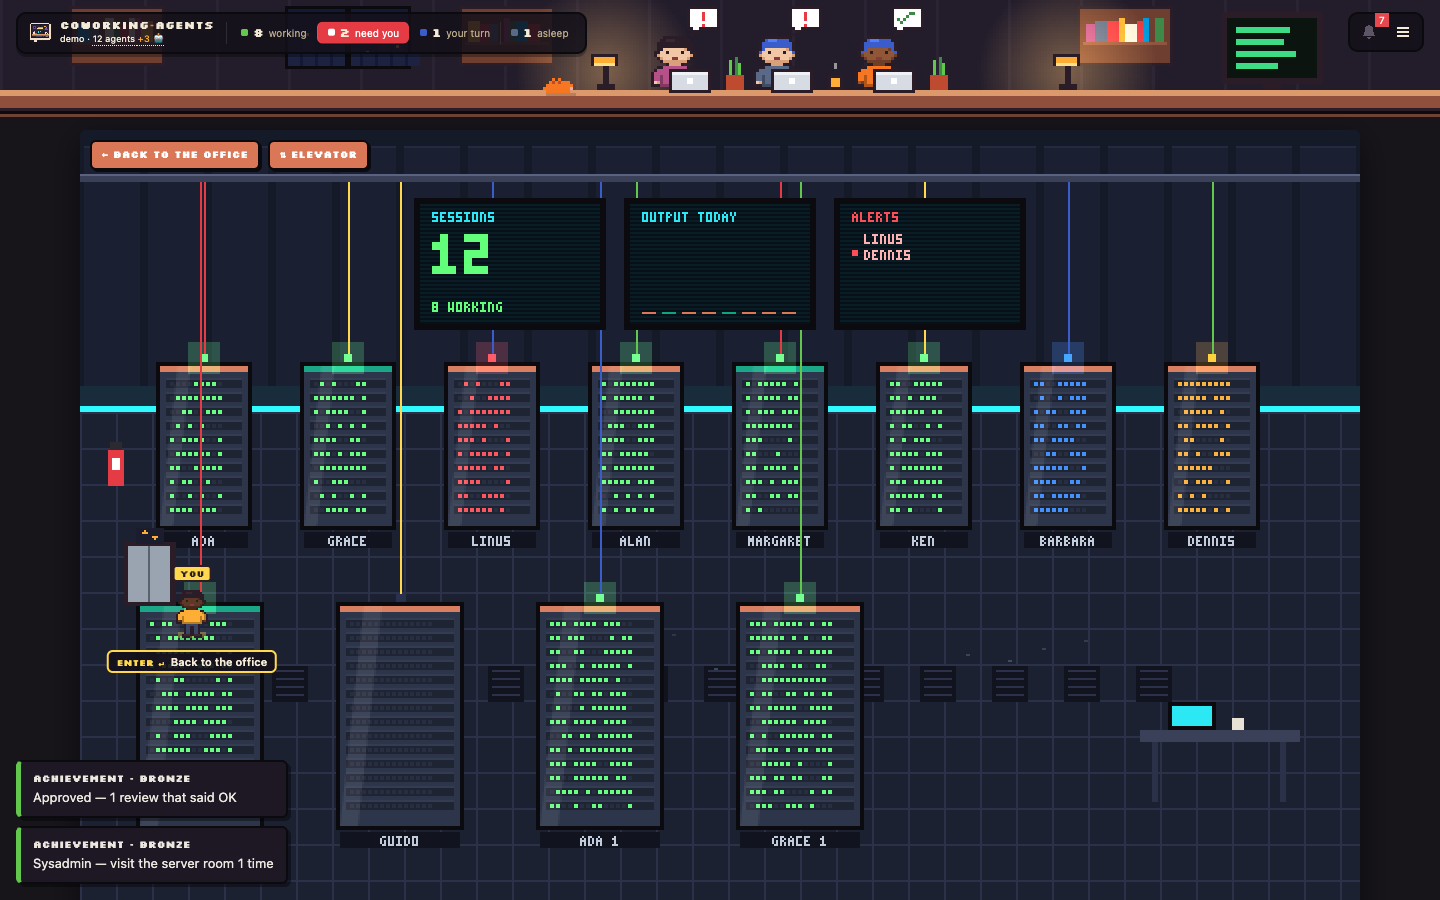
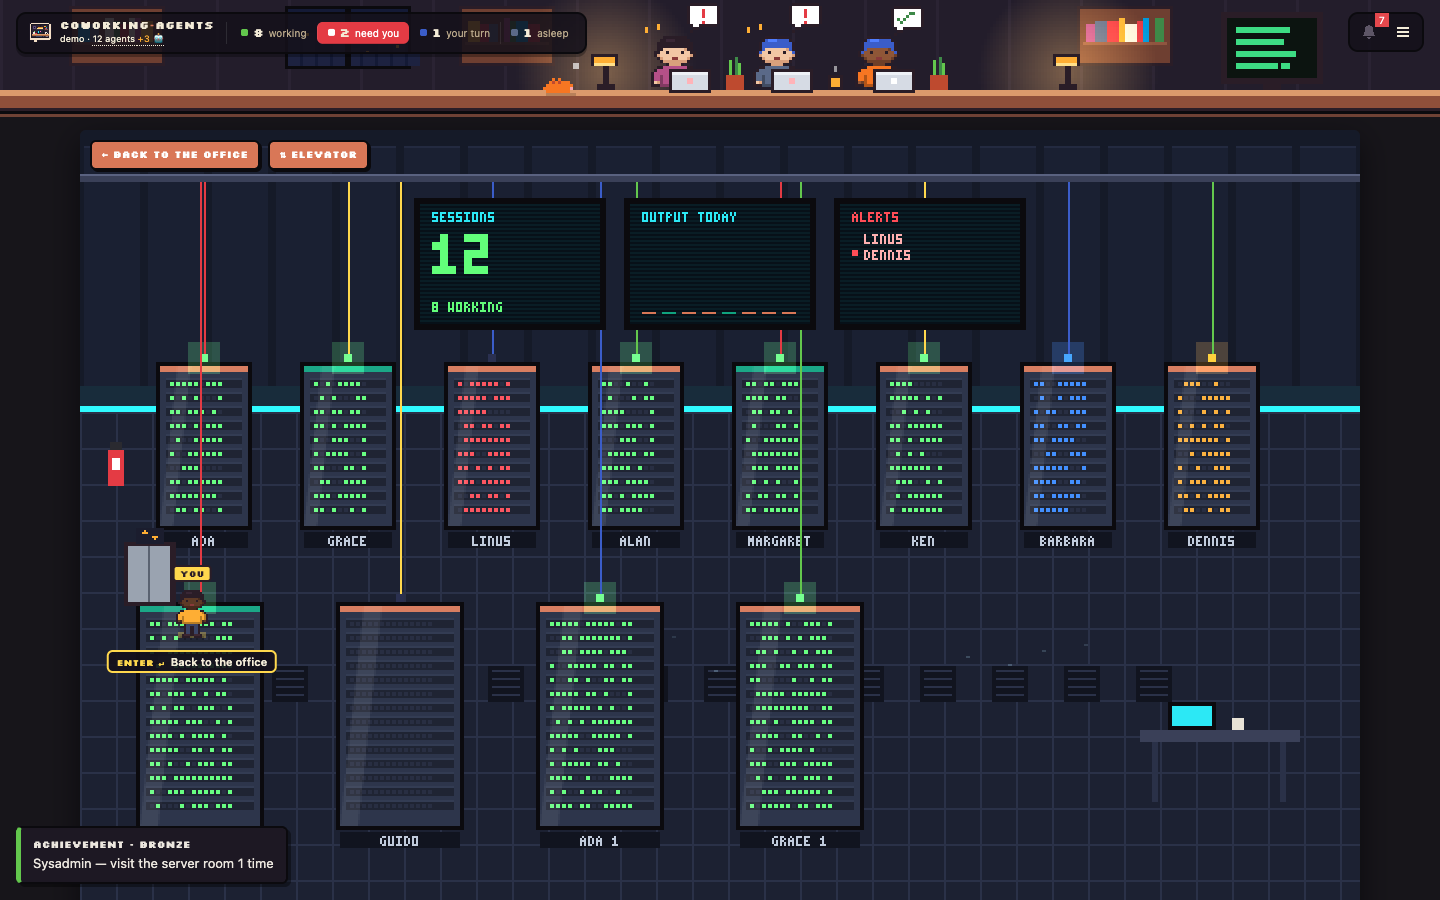
Wall only over the building: sky and trees over the park, an awning and string lights over the café, plants and frames between windows

diff --git a/public/js/scene.js b/public/js/scene.js
@@ -57,17 +57,21 @@ function drawUsageBoard(x, y, t) {
 // hour of the sky (?hour= overrides it for screenshots), with minutes
 const skyHour = () => styleHour(qs.get('hour') ? Number(qs.get('hour')) : new Date().getHours() + new Date().getMinutes() / 60);
 function drawWall(t, sky) {
-  r(0, 0, W, TOP - 6, PAL.wall);
+  // the building's wall runs from the park to the café; over the open sides there is sky (see drawOutdoorTops)
+  const b0 = Math.max(0, SIDE_L - 4), b1 = Math.min(W, RX + RW + 10), bw = b1 - b0;
+  drawOutdoorTops(t, sky, b0, b1);
+  r(b0, 0, bw, TOP - 6, PAL.wall);
   // wallpaper: a quiet dotted diamond pattern, then a chair rail with wood wainscot below the frames
-  for (let y = 8, k = 0; y < TOP - 16; y += 6, k++) for (let x = (k % 2) * 6; x < W; x += 12) r(x, y, 1, 1, PAL.wallShade);
-  r(0, 0, W, 3, PAL.wallTrim); r(0, 3, W, 1, PAL.ink2);
-  r(0, TOP - 14, W, 2, PAL.wallTrim); r(0, TOP - 12, W, 1, PAL.wallShade); r(0, TOP - 11, W, 3, shade(PAL.wall, .93));
-  for (let x = 18; x < W; x += 36) r(x, TOP - 11, 1, 3, PAL.wallShade);
-  r(0, TOP - 8, W, 2, PAL.wallShade); r(0, TOP - 6, W, 5, PAL.base); r(0, TOP - 6, W, 1, '#8f553f'); r(0, TOP - 1, W, 1, PAL.ink);
+  for (let y = 8, k = 0; y < TOP - 16; y += 6, k++) for (let x = b0 + (k % 2) * 6; x < b1; x += 12) r(x, y, 1, 1, PAL.wallShade);
+  r(b0, 0, bw, 3, PAL.wallTrim); r(b0, 3, bw, 1, PAL.ink2);
+  r(b0, TOP - 14, bw, 2, PAL.wallTrim); r(b0, TOP - 12, bw, 1, PAL.wallShade); r(b0, TOP - 11, bw, 3, shade(PAL.wall, .93));
+  for (let x = b0 + 18; x < b1; x += 36) r(x, TOP - 11, 1, 3, PAL.wallShade);
+  r(b0, TOP - 8, bw, 2, PAL.wallShade); r(b0, TOP - 6, bw, 5, PAL.base); r(b0, TOP - 6, bw, 1, '#8f553f'); r(b0, TOP - 1, bw, 1, PAL.ink);
+  if (SIDE_L) r(b0, 0, 4, TOP, PAL.ink2); if (SIDE_R) r(b1 - 4, 0, 4, TOP, PAL.ink2); // the building's corners
   windowBoxes = []; releaseBox = historyBox = costBox = noticesBox = null;
   // what hangs on the wall, chosen by how much wall there is (as many 74 px slots as fit), then spread evenly
   // between the light switch and the whiteboard so the gaps match
-  const nWin = Math.max(1, Math.floor((CX - 30) / 74)), items = [];
+  const nWin = Math.max(1, Math.floor((CX - 30 - SIDE_L) / 74)), items = [];
   let extra = 0; // slots after the agent of the month become the costs screen and the notice board
   for (let i = 0; i < nWin; i++) {
     if (i === 1) items.push({ w: 112, draw: x => drawUsageBoard(x, 7, t) });
@@ -80,10 +84,12 @@ function drawWall(t, sky) {
     else if (i === 4 && nWin >= 7) items.push({ w: 64, draw: x => drawTrophyShelf(x, 9, 64, t) });
     else if (i === 5) items.push(nWin >= 7 ? { w: 52, draw: x => drawAgentOfMonth(x, 10, t, wallGlows) } : { w: 22, draw: x => Art.drawPoster(x, 12, 1) });
     else if (i >= 6 && extra < 2 && typeof drawCostScreen === 'function') items.push(extra++ === 0 ? { w: 48, draw: x => { drawCostScreen(x, 9, 48, 30, t); costBox = { x: x - 1, y: 8, w: 50, h: 32 }; } } : { w: 48, draw: x => { drawNoticeCork(x, 9, 48, 30, t); noticesBox = { x: x - 1, y: 8, w: 50, h: 32 }; } });
+    else if (i >= 6 && i % 3 === 1) items.push({ w: 40, draw: x => drawPlantShelf(x, 14, t, i) }); // a long wall breathes: plants and frames between the windows
+    else if (i >= 6 && i % 3 === 2) items.push({ w: 26, draw: x => drawWallFrame(x, 12, i) });
     else items.push({ w: 48, draw: x => { Art.drawWindow(x, 9, 48, 30, sky, t, i); drawSkyExtras(x, 9, 48, 30, sky, t, i, skyHour()); drawWindowView(x, 9, 48, 30, sky, i); drawSeasonWindow(x, 9, 48, 30, t); drawWeather(x, 9, 48, 30, t); drawGlassDrops(x, 9, 48, 30, t); drawHolidayWindow(x, 9, 48, 30, t, sky); windowBoxes.push({ x, y: 9, w: 48, h: 30 }); } });
   }
   moodBox = null;
-  const left = 18, right = RX - 24, sum = () => items.reduce((n, it) => n + it.w, 0);
+  const left = SIDE_L + 18, right = RX - 24, sum = () => items.reduce((n, it) => n + it.w, 0);
   if (right - left - sum() - 26 >= (items.length + 1) * 8) items.push({ w: 26, draw: x => drawMoodSign(x + 1, 16, t, wallGlows) }); // ON AIR, when there is room
   const gap = items.length > 1 ? Math.min(40, Math.max(6, (right - left - sum()) / (items.length - 1))) : 0, start = left + Math.max(0, ((right - left) - sum() - gap * (items.length - 1)) / 2);
   let x = start; for (const it of items) { it.draw(Math.round(x)); x += it.w + gap; }
@@ -93,12 +99,34 @@ function drawWall(t, sky) {
   hallBox = { x: RX + 74, y: 7, w: 72, h: 32 };
   Art.drawCork(hallBox.x, hallBox.y, hallBox.w, hallBox.h, data ? Object.values(data.credentials || {}).flatMap(c => c.topSkills || []).sort((a, b) => b.count - a.count) : []);
   // light switch on the wall, by the door: click it to turn the ceiling lights on/off
-  switchBox = { x: 4, y: 20, w: 8, h: 12 };
-  r(4, 20, 8, 12, PAL.ink); r(5, 21, 6, 10, '#f4ecd8'); r(5, 21, 6, 1, '#ffffff');
-  r(7, 22, 2, 8, '#c0cbdc'); r(7, lightsOn ? 22 : 26, 2, 4, lightsOn ? '#63c74d' : '#8b9bb4');
+  const sx = SIDE_L + 4; switchBox = { x: sx, y: 20, w: 8, h: 12 };
+  r(sx, 20, 8, 12, PAL.ink); r(sx + 1, 21, 6, 10, '#f4ecd8'); r(sx + 1, 21, 6, 1, '#ffffff');
+  r(sx + 3, 22, 2, 8, '#c0cbdc'); r(sx + 3, lightsOn ? 22 : 26, 2, 4, lightsOn ? '#63c74d' : '#8b9bb4');
   return nWin;
 }
 let switchBox = null;
+// a wall shelf with potted plants, and a small framed picture: what fills a long wall between the windows
+function drawPlantShelf(x, y, t, k) {
+  r(x, y + 20, 40, 3, '#6b4a33'); r(x, y + 23, 40, 1, PAL.ink); r(x + 3, y + 24, 2, 4, '#4a3324'); r(x + 35, y + 24, 2, 4, '#4a3324');
+  const greens = ['#3a8f46', '#2f6b2a', '#4fa846'];
+  for (let j = 0; j < 3; j++) { const px = x + 4 + j * 12, h = 6 + hash('ps' + k + j) % 8; r(px, y + 14, 8, 6, ['#c96f4a', '#e8e2d6', '#3b5dc9'][(k + j) % 3]); for (let l = 0; l < 3; l++) r(px + 1 + l * 2 + (l === 1 ? 0 : 0), y + 14 - h + l * 2, 2, h - l * 2, greens[(j + l) % 3]); }
+}
+function drawWallFrame(x, y, k) {
+  r(x, y, 26, 22, PAL.ink); r(x + 1, y + 1, 24, 20, '#c9a34a'); r(x + 3, y + 3, 20, 16, ['#7fb3e6', '#f4c0d0', '#a8d08d'][k % 3]);
+  const kind = k % 3; if (kind === 0) { r(x + 3, y + 13, 20, 6, '#3a8f46'); r(x + 14, y + 6, 4, 4, '#ffd84d'); } else if (kind === 1) { r(x + 8, y + 8, 10, 8, '#b55088'); r(x + 10, y + 6, 6, 2, '#b55088'); } else { r(x + 5, y + 12, 6, 7, '#5a3a28'); r(x + 13, y + 9, 8, 10, '#6b4a33'); }
+}
+// over the park and the café there is no wall: sky, a line of trees on the left, the café's striped awning on the right
+function drawOutdoorTops(t, sky, b0, b1) {
+  const st = typeof skyStops === 'function' ? skyStops(sky.phase) : ['#3a9ad9', '#7fc8f0', '#bfe6ff'];
+  const band = (x, w) => { for (let y = 0; y < TOP; y++) { const k = y / TOP; r(x, y, w, 1, k < .5 ? st[0] : k < .85 ? st[1] : st[2]); } };
+  if (b0 > 0) { band(0, b0); for (let x = -6; x < b0; x += 22) { const h = 16 + hash('tl' + x) % 14; r(x, TOP - h, 24, h, '#2f6b2a'); r(x + 4, TOP - h - 5, 16, 6, '#3a8a35'); } if (sky.phase === 'night') for (let k = 0; k < 8; k++) { const hh = hash('st' + k); r(hh % b0, (hh >>> 8) % 20, 1, 1, '#ffffff'); } }
+  if (b1 < W) {
+    const w = W - b1; band(b1, w);
+    for (let x = b1; x < W; x += 12) { r(x, TOP - 20, 12, 10, ((x - b1) / 12 | 0) % 2 ? '#e43b44' : '#f4ecd8'); r(x, TOP - 10, 12, 3, ((x - b1) / 12 | 0) % 2 ? '#b8252e' : '#d8cfb8'); r(x + 5, TOP - 7, 2, 2, ((x - b1) / 12 | 0) % 2 ? '#b8252e' : '#d8cfb8'); } // the striped awning
+    for (let x = b1 + 4; x < W - 4; x += 10) { const yy = 10 + Math.round(Math.sin((x - b1) / 18) * 3); r(x, yy, 2, 2, ((t / 500 + x) | 0) % 5 ? '#ffe9a0' : '#feae34'); } // string lights
+    const lab = 'CAFE', lx = b1 + w / 2 - 16; r(lx - 3, 20, 38, 13, PAL.ink); r(lx - 2, 21, 36, 11, '#3a1d27'); pixText(lx + 2, 24, lab, ((t / 700) | 0) % 9 ? '#ff6ec7' : '#7a2e5a');
+  }
+}
 
 function drawShafts(sky, nWin) {
   if (sky.phase === 'night') return;

diff --git a/CHANGELOG.md b/CHANGELOG.md
@@ -1,6 +1,7 @@
 # Changelog
 
 ## Unreleased
+- The wall runs only over the building now: above the park there is sky and a line of trees, above the café a striped awning, string lights and a pink CAFÉ sign; a long wall gets plant shelves and small framed pictures between its windows
 - Two modes in ☰ → Settings → *Gather mode*: Gather (your character walks and the camera follows; zoom with the small − + on the left edge, the zoom row in the menu, the - and = keys or a pinch, from *all* to 4×; drag or scroll to look around, walking or ◎ brings the camera back) and Normal (the whole floor across the window, no character; the same − + zoom in to look closer, then drag or scroll to look around)
 - A wider, roomier floor in both modes: more space between rooms, a park along the left (a winding path, a pond with a duck, trees, benches, lamps) and a café terrace along the right (the counter, round umbrella tables); agents on a stroll sit there too
 - Walking: you collide by your feet (the bottom of your character, about 10 px wide), so walls stop you where they are drawn and you no longer get stuck on an invisible edge in the middle of the floor; the glass meeting room, the rest room and the server corner are walls too, entered by their doors
